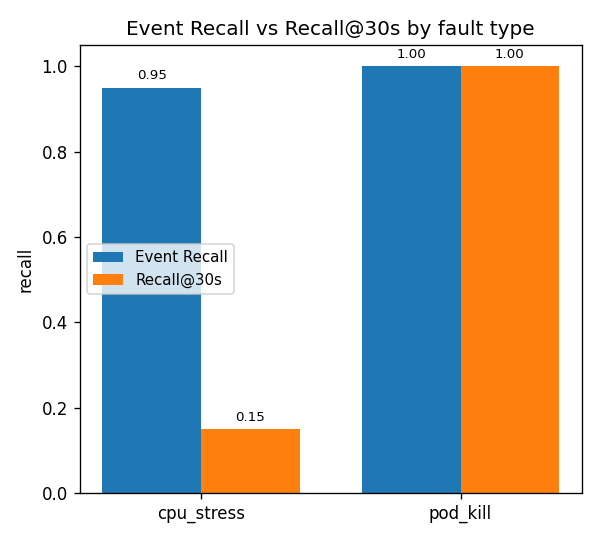
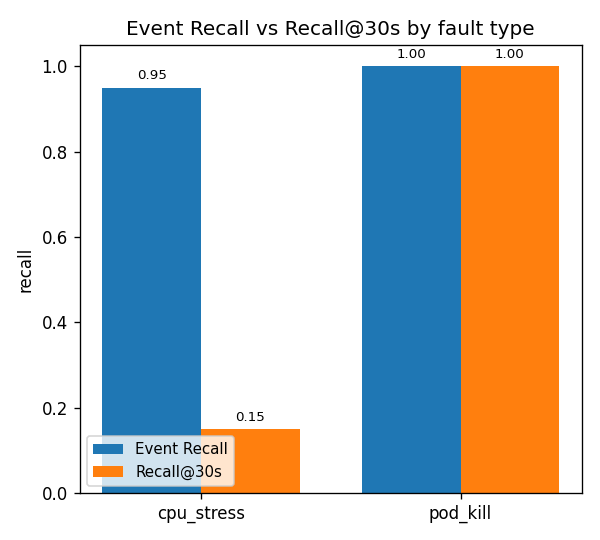
fix: move event_recall_by_fault_type legend to lower-left
The legend overlapped the bars in the center. Pin it to lower-left so it
sits in the empty area under the cpu_stress bars. Regenerate the committed
sample chart.

Changed region(s): [[0.12, 0.8, 0.39, 0.9185], [0.12, 0.4444, 0.39, 0.563]]

diff --git a/benchmark/pipeline.py b/benchmark/pipeline.py
@@ -297,7 +297,7 @@ def _plot_all(
         for i, f in enumerate(fts):
             ax.text(i - w/2, er[f] + 0.02, f"{er[f]:.2f}", ha="center", fontsize=8)
             ax.text(i + w/2, r30.get(f, 0) + 0.02, f"{r30.get(f, 0):.2f}", ha="center", fontsize=8)
-        ax.legend(fontsize=9)
+        ax.legend(fontsize=9, loc="lower left")
         fig.tight_layout()
         fig.savefig(out_dir / "event_recall_by_fault_type.png", dpi=120)
         plt.close(fig)
